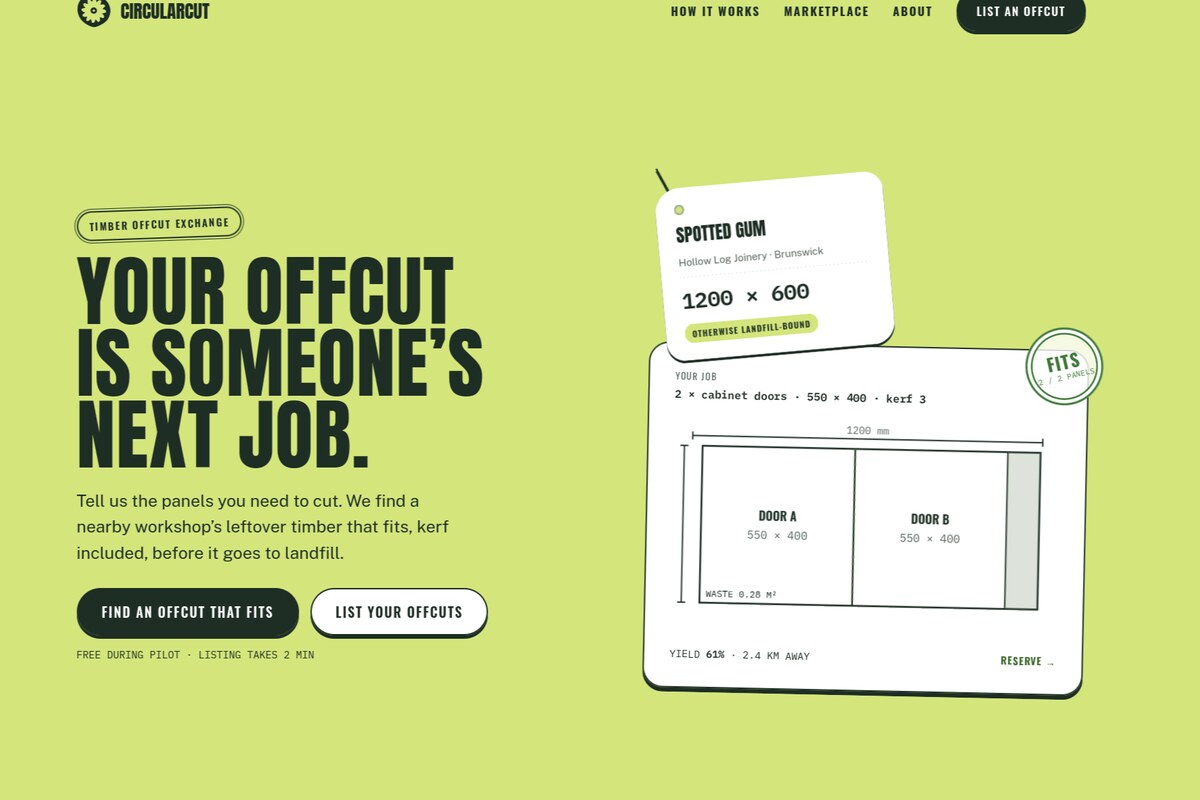
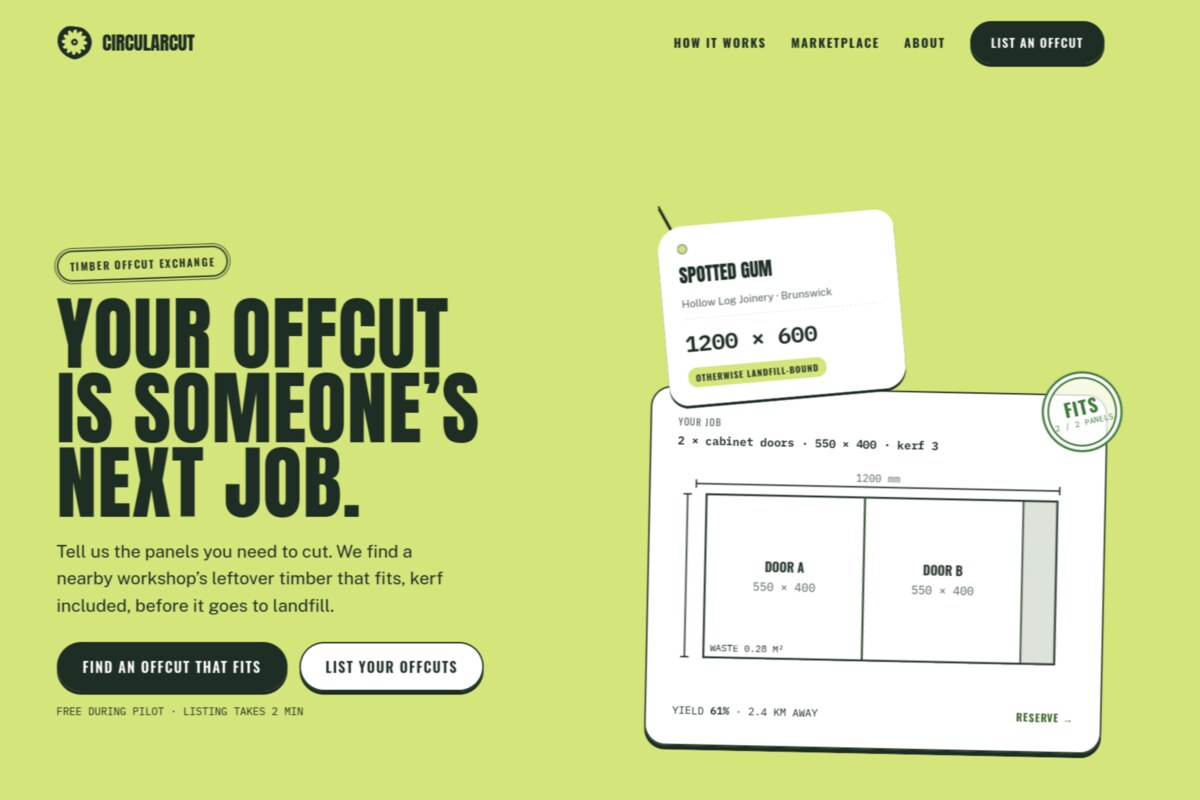
Move CircularCut to top of Work section, update thumbnail
Uses a sharper/higher-res crop of the CircularCut hero screenshot.

diff --git a/index.html b/index.html
@@ -1358,6 +1358,23 @@
 	<section id="projects">
 		<div class="section-head reveal"><span class="kicker">Selected</span><h2>Work</h2></div>
 
+		<div class="project-block reverse reveal">
+			<div>
+				<div class="project-tags">
+					<span class="project-tag">Next.js</span>
+					<span class="project-tag">Sustainability</span>
+					<span class="project-tag">Hackathon</span>
+				</div>
+				<h3>CircularCut</h3>
+				<p>Built for Climate Hack-tion 2026. A marketplace that matches small workshops' leftover material offcuts to other makers' new orders &mdash; checking material fit, blade-width and trim allowances, and buyer-approved dimension adjustments before reservation.</p>
+				<div class="project-links">
+					<a class="link magnetic" href="https://climate-hacktion-2026.github.io/circularcut/" target="_blank" rel="noopener">Live demo <span class="arrow">&rarr;</span></a>
+					<a class="link magnetic" href="https://github.com/climate-hacktion-2026/circularcut" target="_blank" rel="noopener">View source <span class="arrow">&rarr;</span></a>
+				</div>
+			</div>
+			<div class="project-img-wrap"><img src="/assets/images/circularcut-screenshot.jpg?v=20261009b" alt="CircularCut homepage: a timber offcut listing matched against a cutting job, showing yield and a reserve action"></div>
+		</div>
+
 		<div class="project-block reveal">
 			<div>
 				<div class="project-tags">
@@ -1402,23 +1419,6 @@
 				<a class="link magnetic" href="/projects/home-lab.html">Explore the Home Lab <span class="arrow">→</span></a>
 			</div>
 			<div class="project-img-wrap"><img src="/assets/images/home-lab-ha-dashboard.jpg?v=20260812" alt="Home Assistant dashboard screenshot"></div>
-		</div>
-
-		<div class="project-block reverse reveal">
-			<div>
-				<div class="project-tags">
-					<span class="project-tag">Next.js</span>
-					<span class="project-tag">Sustainability</span>
-					<span class="project-tag">Hackathon</span>
-				</div>
-				<h3>CircularCut</h3>
-				<p>Built for Climate Hack-tion 2026. A marketplace that matches small workshops' leftover material offcuts to other makers' new orders &mdash; checking material fit, blade-width and trim allowances, and buyer-approved dimension adjustments before reservation.</p>
-				<div class="project-links">
-					<a class="link magnetic" href="https://climate-hacktion-2026.github.io/circularcut/" target="_blank" rel="noopener">Live demo <span class="arrow">&rarr;</span></a>
-					<a class="link magnetic" href="https://github.com/climate-hacktion-2026/circularcut" target="_blank" rel="noopener">View source <span class="arrow">&rarr;</span></a>
-				</div>
-			</div>
-			<div class="project-img-wrap"><img src="/assets/images/circularcut-screenshot.jpg?v=20261009" alt="CircularCut homepage: a timber offcut listing matched against a cutting job, showing yield and a reserve action"></div>
 		</div>
 
 		<p class="more-projects-note">More projects will be added here as they launch.</p>
